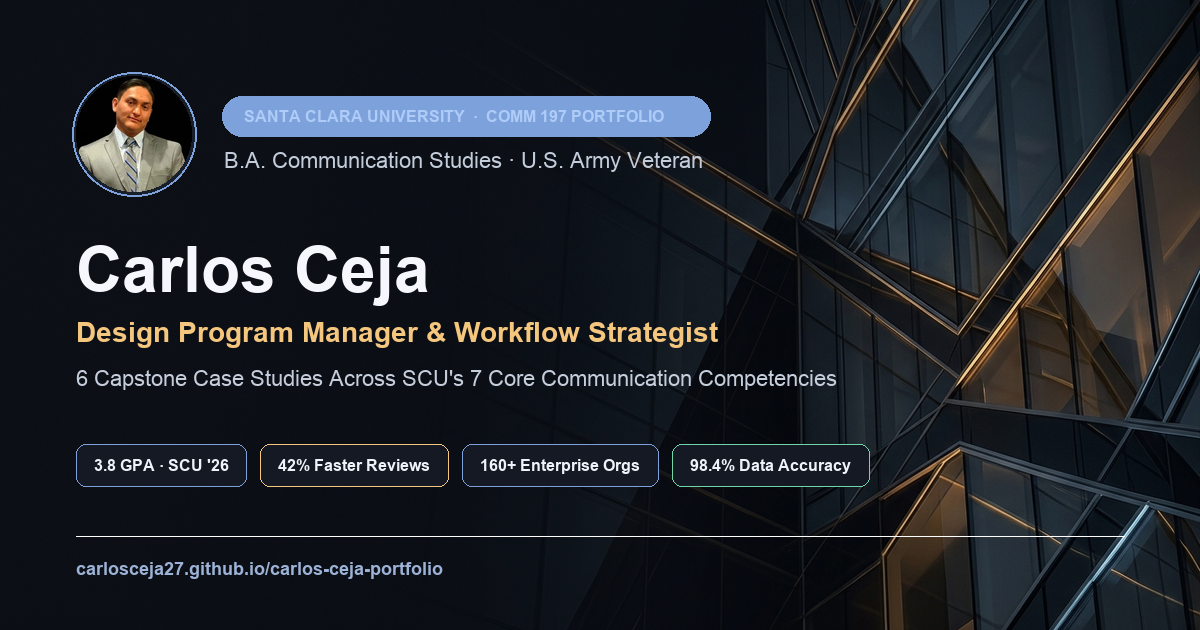
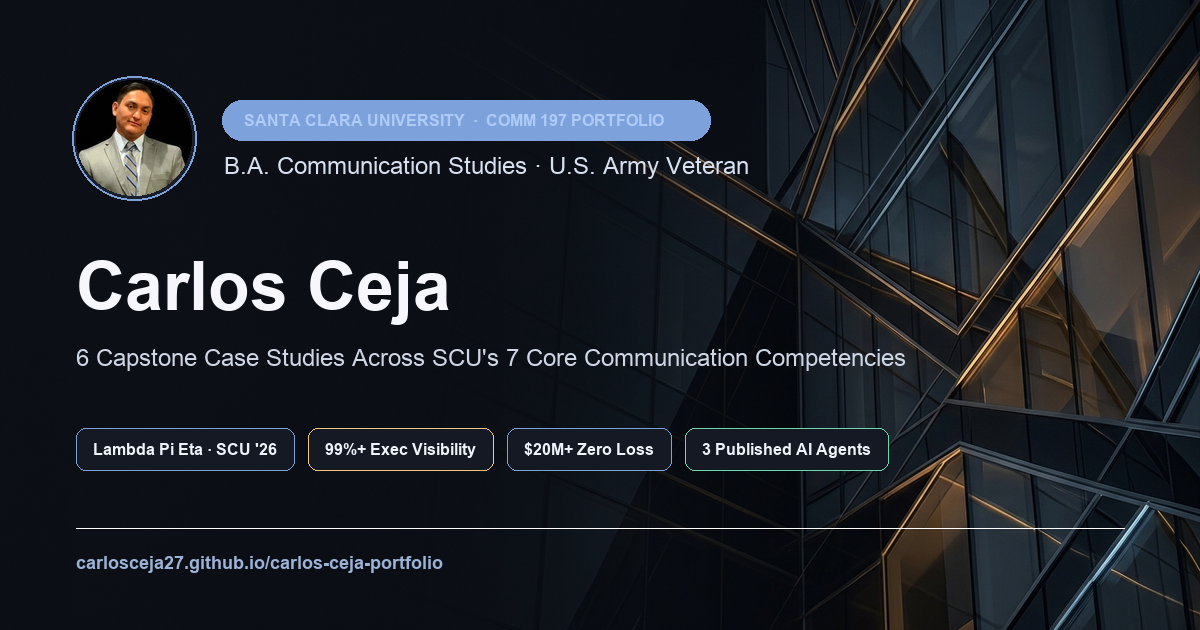
style: add obsidian architectural hero backdrop and remove title subtitle from hero & OG card

diff --git a/index.html b/index.html
@@ -74,8 +74,7 @@
         <div class="hero-text">
           <p class="eyebrow">SANTA CLARA UNIVERSITY · DEPARTMENT OF COMMUNICATION</p>
           <h1 id="name">Carlos Ceja</h1>
-          <p class="tagline">B.A. Communication Studies, Class of Fall 2026 · U.S. Army Veteran<br>
-            Design Program Manager · Workflow Transformation · AI Tooling</p>
+          <p class="tagline">B.A. Communication Studies, Class of Fall 2026 · U.S. Army Veteran</p>
           <!-- DRAFT BIO: rewrite in your own words before submitting (course rule: no unedited AI text over 5 words). -->
           <p class="bio">I'm a Communication Studies senior at Santa Clara University (Organizational Communication, graduating Fall 2026) and a U.S. Army veteran. I'm pursuing design program management and workflow transformation roles, and I plan to continue into SCU's M.S. in Business Analytics.</p>
           <ul class="contact">

diff --git a/css/style.css b/css/style.css
@@ -157,6 +157,18 @@ html[data-theme="dark"] .icon-moon { display: none; }
   background: linear-gradient(180deg, var(--surface) 0%, var(--bg) 100%);
   overflow: hidden;
 }
+html[data-theme="dark"] .hero-backdrop {
+  background:
+    linear-gradient(90deg, #0c0f15 0%, #0c0f15 44%, rgba(12, 15, 21, 0.86) 66%, rgba(12, 15, 21, 0.38) 100%),
+    url("../assets/img/hero-bg.webp") right center / cover no-repeat,
+    #0c0f15;
+}
+html[data-theme="light"] .hero-backdrop {
+  background:
+    linear-gradient(90deg, #f7f8fb 0%, #f7f8fb 54%, rgba(247, 248, 251, 0.90) 76%, rgba(247, 248, 251, 0.72) 100%),
+    url("../assets/img/hero-bg.webp") right center / cover no-repeat,
+    #f7f8fb;
+}
 #hero-canvas {
   position: absolute;
   inset: 0;
